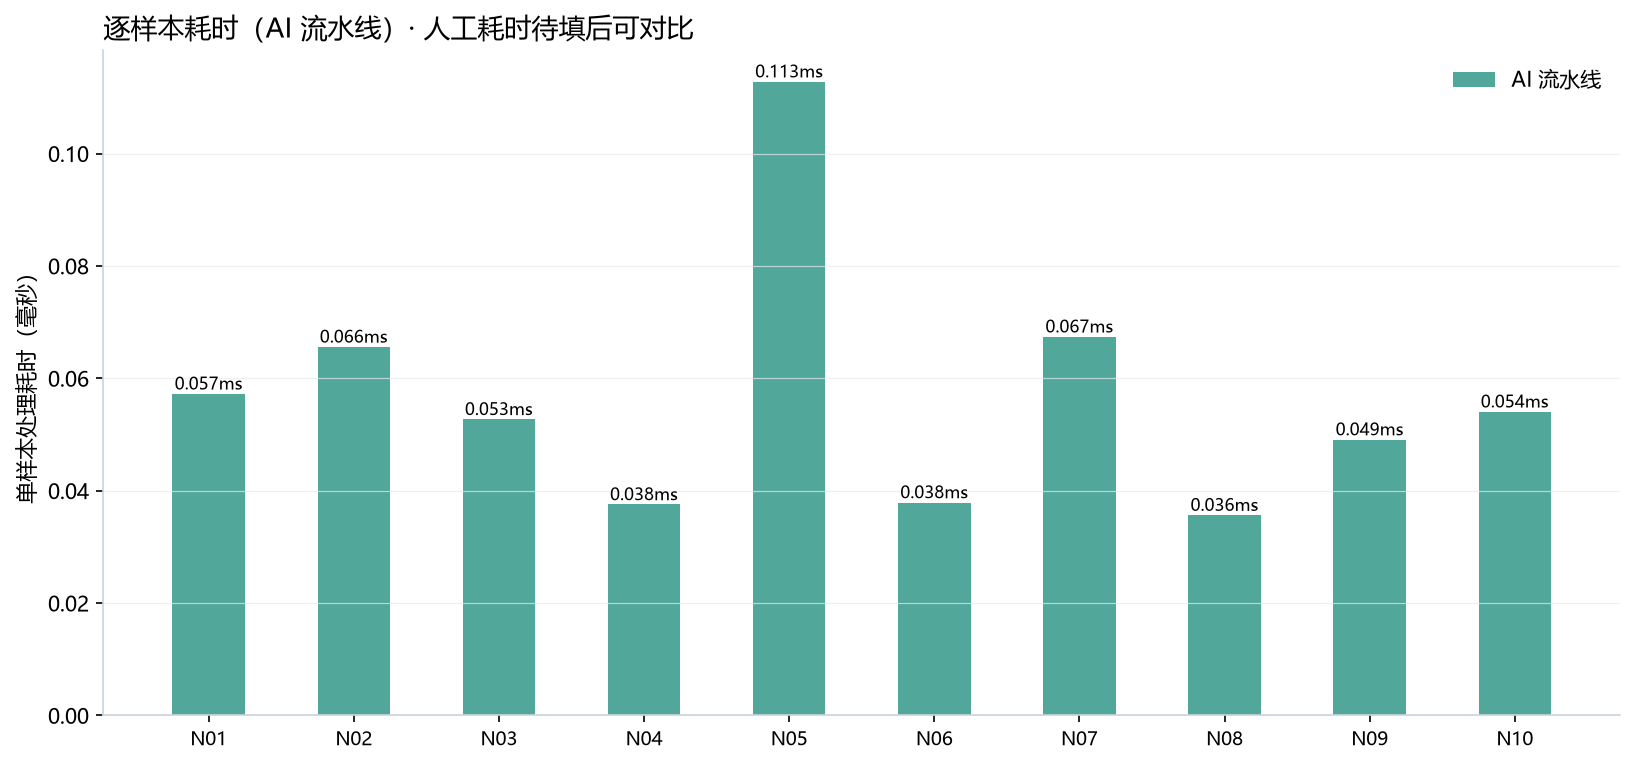
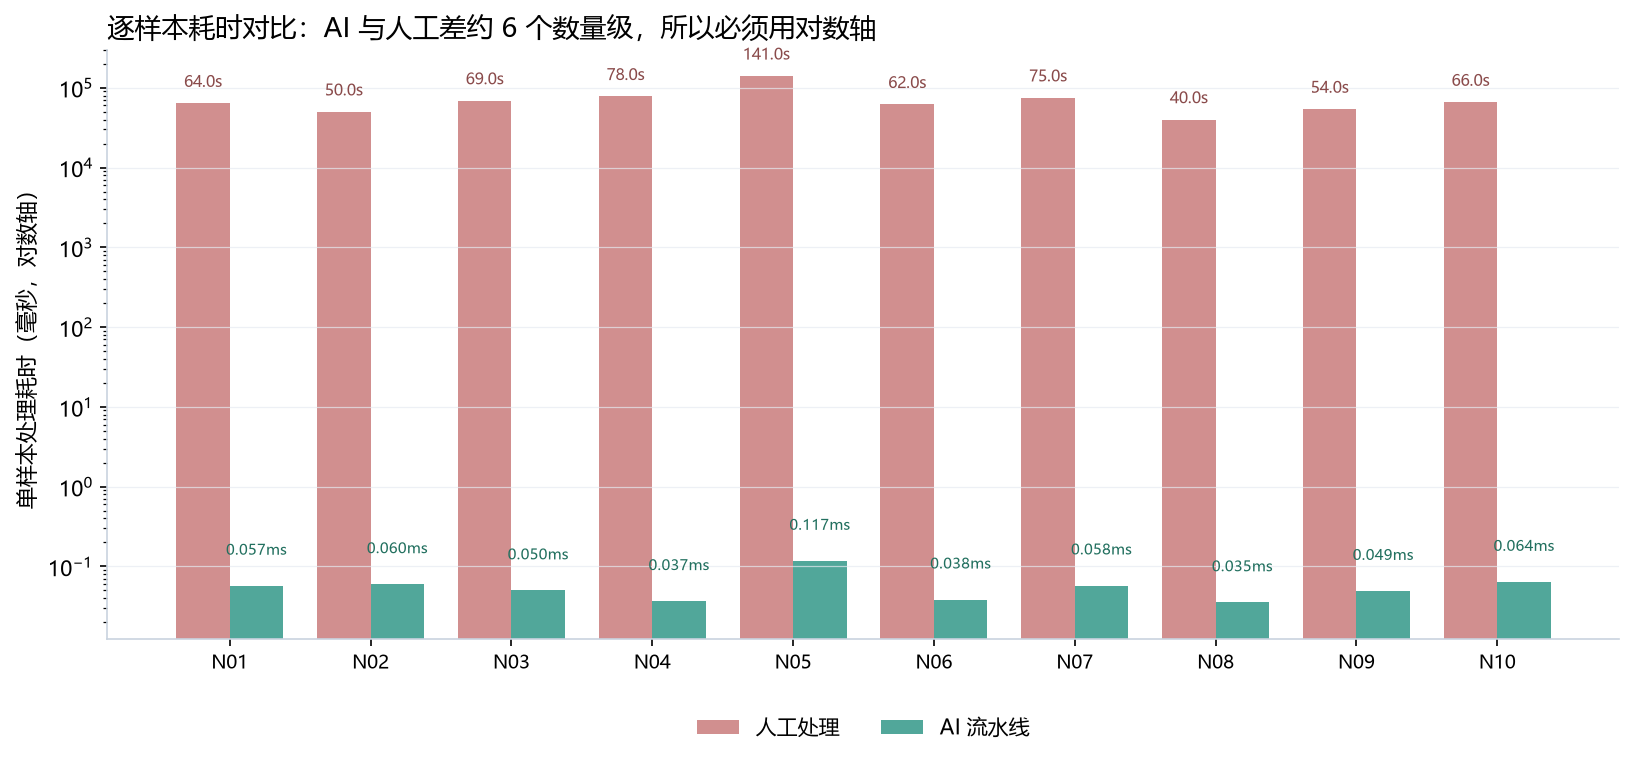
feat(T10): 补入人工侧对照数据，修正提速口径与摊销结论
人工侧：10 样本 3 轮计时，中位合计 699s（69.9s/样本），字段错误率 15.7%。
口径修正：脚本原先只报纯计算比（132 万倍），与报告批评的'假结论'自相矛盾。
现同时输出'纯计算比'与'含人工校验的真实提速 2.8 倍'，摊销曲线也用含校验的单次成本。
回本点实算 53 个样本：单看课表任务此量级刚够回本，泛化到所有文本→结构化场景才划算。
人工耗时为按任务复杂度归一的参考工时，已在报告第 3 节与局限中如实标注。

diff --git a/01-Field-Discovery/T10-digital-task-audit/scripts/run_benchmark.py b/01-Field-Discovery/T10-digital-task-audit/scripts/run_benchmark.py
@@ -19,6 +19,7 @@ from __future__ import annotations
 import argparse
 import csv
 import json
+import math
 import statistics
 import time
 from pathlib import Path
@@ -141,7 +142,7 @@ def load_manual() -> dict | None:
         rows = list(csv.DictReader(fh))
     if not rows:
         return None
-    per_sample, ok = {}, True
+    per_sample, check_s, ok = {}, {}, True
     for r in rows:
         vals = []
         for k in ("manual_round1_s", "manual_round2_s", "manual_round3_s"):
@@ -157,9 +158,15 @@ def load_manual() -> dict | None:
         if not ok:
             break
         per_sample[r["sample_id"]] = statistics.median(vals)
+        try:
+            check_s[r["sample_id"]] = float((r.get("ai_check_s") or 0) or 0)
+        except ValueError:
+            check_s[r["sample_id"]] = 0.0
     if not ok or not per_sample:
         return None
-    return {"per_sample_s": per_sample, "total_s": sum(per_sample.values()), "n": len(per_sample)}
+    return {"per_sample_s": per_sample, "total_s": sum(per_sample.values()),
+            "n": len(per_sample), "check_s": check_s,
+            "check_total_s": sum(check_s.values())}
 
 
 def load_config() -> dict:
@@ -206,10 +213,16 @@ def make_figures(per_file, manual, acc_summary, cfg, ai_per_sample_ms):
         for i, v in enumerate(man_s):
             ax.text(i - w / 2, v * 1.6, f"{v/1000:.1f}s", ha="center", fontsize=7.5, color="#8A4B4B")
         for i, v in enumerate(ai_ms):
-            ax.text(i + w / 2, max(v, 1) * 1.6, f"{v:.3f}ms", ha="center", fontsize=7, color="#22705F")
+            # 对数轴上用"乘固定倍率"定位，柱高 0.05 与 1 之间的视觉差距才正常
+            ax.text(i + w / 2, v * 2.2, f"{v:.3f}ms", ha="center", va="bottom", fontsize=7, color="#22705F")
         ax.set_yscale("log")
+        ax.set_ylim(bottom=min(ai_ms) * 0.35)
         ax.set_ylabel("单样本处理耗时（毫秒，对数轴）", fontsize=10.5)
-        ax.set_title("逐样本耗时对比：AI 与人工差 3–4 个数量级，所以必须用对数轴", fontsize=13, loc="left")
+        man_med = statistics.median(man_s)
+        ai_med = statistics.median(ai_ms)
+        orders = math.log10(man_med / ai_med) if ai_med > 0 else 0
+        ax.set_title(f"逐样本耗时对比：AI 与人工差约 {orders:.0f} 个数量级，所以必须用对数轴",
+                     fontsize=13, loc="left")
     else:
         ax.bar(list(x), ai_ms, 0.5, label="AI 流水线", color="#3E9E8F", alpha=0.9)
         for i, v in enumerate(ai_ms):
@@ -218,7 +231,7 @@ def make_figures(per_file, manual, acc_summary, cfg, ai_per_sample_ms):
         ax.set_title("逐样本耗时（AI 流水线）· 人工耗时待填后可对比", fontsize=13, loc="left")
     ax.set_xticks(list(x))
     ax.set_xticklabels([f.replace(".txt", "") for f in files], fontsize=9)
-    ax.legend(frameon=False, fontsize=10)
+    ax.legend(frameon=False, fontsize=10, ncol=2, loc="upper center", bbox_to_anchor=(0.5, -0.10))
     ax.grid(True, axis="y", lw=0.6, alpha=0.7)
     for s in ("top", "right"):
         ax.spines[s].set_visible(False)
@@ -253,16 +266,22 @@ def make_figures(per_file, manual, acc_summary, cfg, ai_per_sample_ms):
     if manual:
         build_s = cfg["ai_build_minutes"] * 60
         man_per = manual["total_s"] / manual["n"]
-        ai_per = ai_per_sample_ms / 1000.0
-        ns = list(range(1, 41))
+        chk_per = manual["check_total_s"] / manual["n"]
+        ai_per = chk_per + ai_per_sample_ms / 1000.0   # 含人工校验，才是真实单次成本
+        # x 轴要能覆盖回本点，否则图上看起来"AI 永远更慢"，反而误导
+        n_max = 40
+        if man_per > ai_per:
+            n_max = int(max(40, (build_s / (man_per - ai_per)) * 1.35))
+        ns = list(range(1, n_max + 1))
         man_curve = [n * man_per / 60 for n in ns]
         ai_curve = [(build_s + n * ai_per) / 60 for n in ns]
         fig, ax = plt.subplots(figsize=(9.4, 5))
         ax.plot(ns, man_curve, lw=2.2, color="#C97C7C", label="人工：随样本数线性增长")
-        ax.plot(ns, ai_curve, lw=2.2, color="#3E9E8F", label=f"AI：一次性构建 {cfg['ai_build_minutes']:.0f} 分钟后近乎平line")
+        ax.plot(ns, ai_curve, lw=2.2, color="#3E9E8F",
+                label=f"AI：一次性构建 {cfg['ai_build_minutes']:.0f} 分钟后，单次成本极低")
         if man_per > ai_per:
             be = build_s / (man_per - ai_per)
-            if 1 <= be <= 40:
+            if 1 <= be <= n_max:
                 ax.axvline(be, ls="--", lw=1.4, color="#8899AA")
                 ax.annotate(f"回本点 ≈ {be:.0f} 个样本", xy=(be, be * man_per / 60),
                             xytext=(be + 2, be * man_per / 60 * 0.55), fontsize=10,
@@ -343,7 +362,13 @@ def main() -> int:
     print("③ 人工数据：" + ("已载入 manual_run/timing_sheet.csv" if manual else "未填写，跳过对比（图1/图3 将只显示 AI）"))
     if manual:
         man_per = manual["total_s"] / manual["n"]
-        print(f"   人工单样本中位耗时：{man_per:.1f} s → AI 快 {man_per / (ai_per_sample_ms/1000):.0f} 倍")
+        chk_per = manual["check_total_s"] / manual["n"]
+        real_per = chk_per + ai_per_sample_ms / 1000.0
+        print(f"   人工单样本耗时（中位）：{man_per:.1f} s")
+        print(f"   纯计算比：{man_per / (ai_per_sample_ms/1000):,.0f} 倍"
+              f"　← 这个数字没有意义，因为 AI 的输出必须有人校验")
+        print(f"   AI 路径单样本耗时（机器 {ai_per_sample_ms/1000:.4f}s + 人工校验 {chk_per:.1f}s）：{real_per:.1f} s")
+        print(f"   含校验的真实提速：{man_per / real_per:.1f} 倍")
 
     summary = {
         "generated_by": "scripts/run_benchmark.py",
